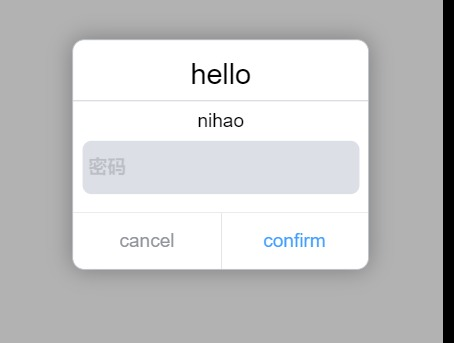
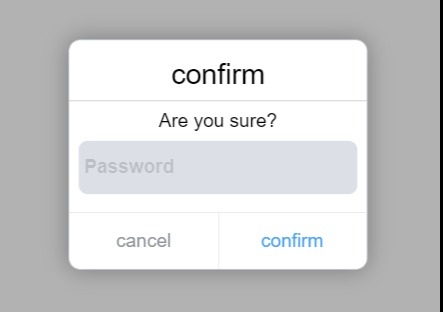
add:closeOnClickMask option

diff --git a/src/App.vue b/src/App.vue
@@ -11,7 +11,8 @@
         @confirm="confirm"
         titleClassName="title"
         password
-        passwordRequired
+        password-required
+        closeOnClickMask
       >
         <!-- <template slot="head">我是标题</template>
         <template slot="body">我是内容</template> -->
@@ -49,26 +50,27 @@ export default {
       console.log("confirm", pwd);
     },
     handleClick() {
-      // this.visible = true;
-      this.$confirm({
-        mask: true,
-        shadow: true,
-        title: "hello",
-        content: "nihao",
-        cancelText: "取消",
-        confirmText: "确定",
-        titleClassName: "title",
-        round: true,
-        password: true,
-        passwordRequired: true,
-        passwordPlaceholder: "密码",
-        onCancel: () => {
-          console.log(this.visible, "cancel");
-        },
-        onConfirm: pwd => {
-          console.log(this.visible, "confirm", pwd);
-        }
-      });
+      this.visible = true;
+      // this.$confirm({
+      //   mask: true,
+      //   shadow: true,
+      //   title: "hello",
+      //   content: "nihao",
+      //   cancelText: "取消",
+      //   confirmText: "确定",
+      //   titleClassName: "title",
+      //   round: true,
+      //   password: true,
+      //   passwordRequired: true,
+      //   passwordPlaceholder: "密码",
+      //   onCancel: () => {
+      //     console.log(this.visible, "cancel");
+      //   },
+      //   onConfirm: pwd => {
+      //     console.log(this.visible, "confirm", pwd);
+      //   },
+      //   closeOnClickMask: true
+      // });
     }
   }
 };

diff --git a/src/packages/VConfirm/Confirm.vue b/src/packages/VConfirm/Confirm.vue
@@ -1,5 +1,10 @@
 <template>
-  <div :class="['v-confirm-mask', { mask: mask }]" v-show="visible">
+  <div
+    :class="['v-confirm-mask', { mask: mask }]"
+    v-show="visible"
+    @click="handleMaskClick"
+    ref="maskRef"
+  >
     <div :class="['v-confirm-wrap', { round: round, shadow: shadow }]">
       <div :class="['v-confirm-head', titleClassName]">
         <slot name="head">{{ title }}</slot>
@@ -12,6 +17,7 @@
             type="password"
             :placeholder="passwordPlaceholder"
             v-model="pwd"
+            ref="pwdRef"
           />
         </div>
       </div>
@@ -85,6 +91,10 @@ export default {
     passwordPlaceholder: {
       type: String,
       default: "Password"
+    },
+    closeOnClickMask: {
+      type: Boolean,
+      default: false
     }
   },
   data() {
@@ -109,7 +119,7 @@ export default {
     },
     handleConfirm() {
       this.confirmTouched = true;
-      if (this.empty) return;
+      if (this.empty) return this.$refs.pwdRef.focus();
       this.$emit("confirm", this.pwd);
       this.$emit("update:visible");
       this.resetPwd();
@@ -117,6 +127,13 @@ export default {
     resetPwd() {
       this.pwd = "";
       this.confirmTouched = false;
+    },
+    handleMaskClick(ev) {
+      if (this.closeOnClickMask === true) {
+        if (ev.target == this.$refs.maskRef) {
+          this.handleCancel();
+        }
+      }
     }
   },
   watch: {
@@ -134,7 +151,7 @@ export default {
 .v-confirm-mask {
   &.mask {
     position: fixed;
-    z-index: 999;
+    z-index: 999999;
     left: 0;
     top: 0;
     bottom: 0;

diff --git a/src/packages/VConfirm/index.js b/src/packages/VConfirm/index.js
@@ -17,7 +17,14 @@ Confirm.install = Vue => {
       "footerClassName",
       "passwordPlaceholder"
     ];
-    let bolOpt = ["mask", "round", "shadow", "password", "passwordRequired"];
+    let bolOpt = [
+      "mask",
+      "round",
+      "shadow",
+      "password",
+      "passwordRequired",
+      "closeOnClickMask"
+    ];
     strOpt.forEach(opt => {
       if (options[opt] && isType(options, opt, "string")) {
         instance[opt] = options[opt];
@@ -30,7 +37,7 @@ Confirm.install = Vue => {
     });
     instance.handleConfirm = function() {
       instance.confirmTouched = true;
-      if (instance.empty) return;
+      if (instance.empty) return instance.$refs.pwdRef.focus();
       if (options.onConfirm && isType(options, "onConfirm", "function")) {
         options.onConfirm(instance.pwd);
       }

diff --git a/src/main.js b/src/main.js
@@ -1,9 +1,9 @@
 import Vue from "vue";
 import App from "./App.vue";
-import VConfirm from "./packages/VConfirm";
+import { VConfirm } from "./packages/VConfirm";
 Vue.config.productionTip = false;
-Vue.use(VConfirm);
-// Vue.component(VConfirm.name, VConfirm);
+// Vue.use(VConfirm);
+Vue.component(VConfirm.name, VConfirm);
 new Vue({
   render: h => h(App)
 }).$mount("#app");

diff --git a/README.md b/README.md
@@ -95,22 +95,23 @@ Vue.component(VConfirm.name, VConfirm);
 
      **basic property**:
    
-     | name               | type    | default         | description                                                  |
-     | ------------------ | ------- | --------------- | ------------------------------------------------------------ |
-     | visible            | Boolean | false           | Whether the component is visible or not. `.Sync `modifier is required to synchronize the status. |
-     | title              | String  | 'confirm'       | Component title                                              |
-     | content            | String  | 'Are you sure?' | Component body content                                       |
-     | cancelText         | String  | 'cancel'        | Text displayed on Cancel button                              |
-     | confirmText        | String  | 'confirm'       | Text displayed on Confirm button                             |
-     | mask               | Boolean | true            | Whether there is a mask                                      |
-     | titleClassName     | String  | ---             | ---                                                          |
-     | contentClassName   | String  | ---             | ---                                                          |
-     | footerClassName    | String  | ---             | ---                                                          |
-     | round              | Boolean | false           | Whether there is fillet effect                               |
-     | shadow             | Boolean | false           | Whether there is shadow                                      |
-     | password           | Boolean | false           | Whether there is a password input                            |
-     | passwordRequired   | Boolean | true            | Whether password is required or not                          |
-     | passwordPlacehoder | String  | 'Password'      | password placeholder                                         |
+     | name                | type    | default         | description                                                  |
+     | ------------------- | ------- | --------------- | ------------------------------------------------------------ |
+     | visible             | Boolean | false           | Whether the component is visible or not. `.Sync `modifier is required to synchronize the status. |
+     | title               | String  | 'confirm'       | Component title                                              |
+     | content             | String  | 'Are you sure?' | Component body content                                       |
+     | cancelText          | String  | 'cancel'        | Text displayed on Cancel button                              |
+     | confirmText         | String  | 'confirm'       | Text displayed on Confirm button                             |
+     | mask                | Boolean | true            | Whether there is a mask                                      |
+     | titleClassName      | String  | ---             | ---                                                          |
+     | contentClassName    | String  | ---             | ---                                                          |
+     | footerClassName     | String  | ---             | ---                                                          |
+     | round               | Boolean | false           | Whether there is fillet effect                               |
+     | shadow              | Boolean | false           | Whether there is shadow                                      |
+     | password            | Boolean | false           | Whether there is a password input                            |
+     | passwordRequired    | Boolean | true            | Whether password is required or not                          |
+     | passwordPlaceholder | String  | 'Password'      | password placeholder                                         |
+     | closeOnClickMask    | Boolean | false           | ---                                                          |
 
   		**events**:
 
@@ -153,6 +154,7 @@ Vue.component(VConfirm.name, VConfirm);
       password,
       passwordRequired,
       passwordPlaceholder,
+      closeOnClickMask,
       onConfirm,
       onCancel
 }
